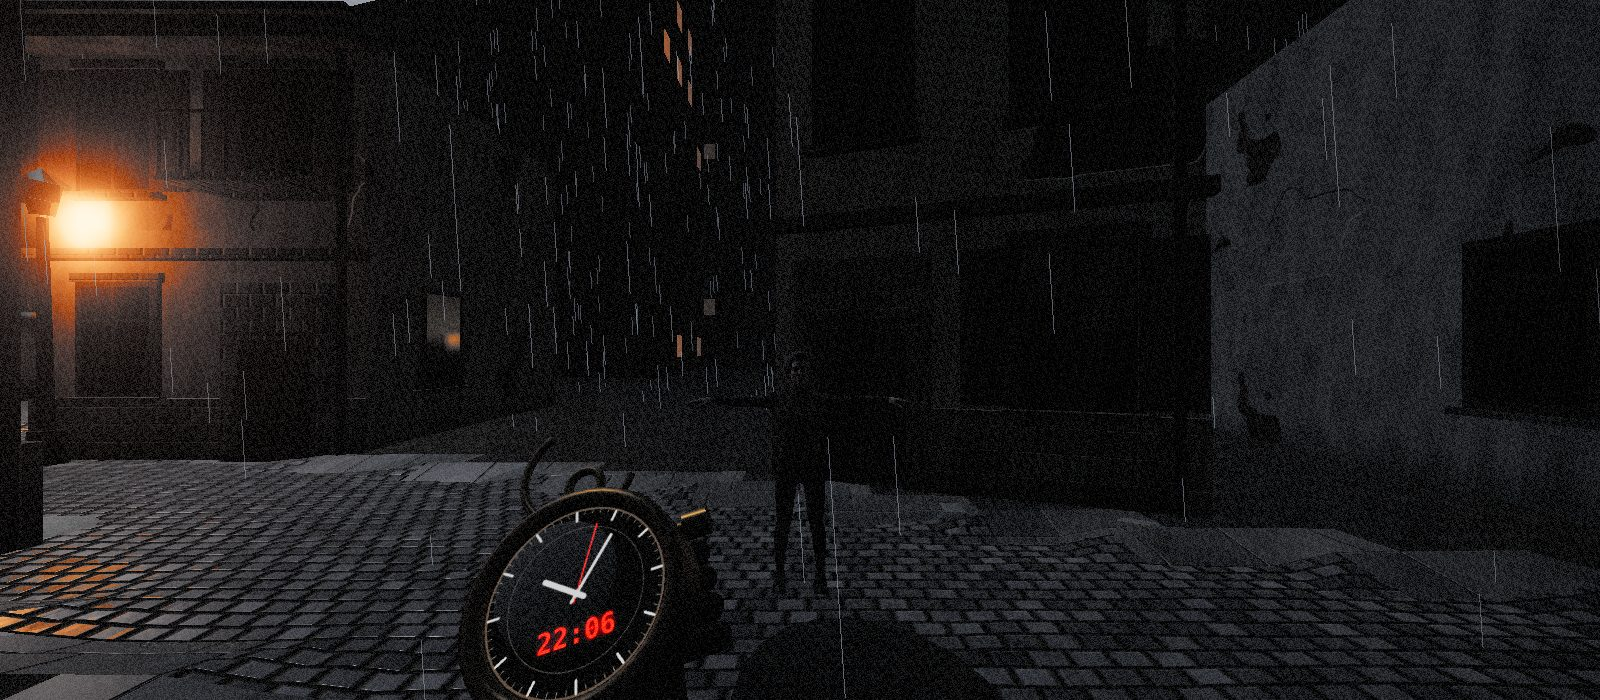
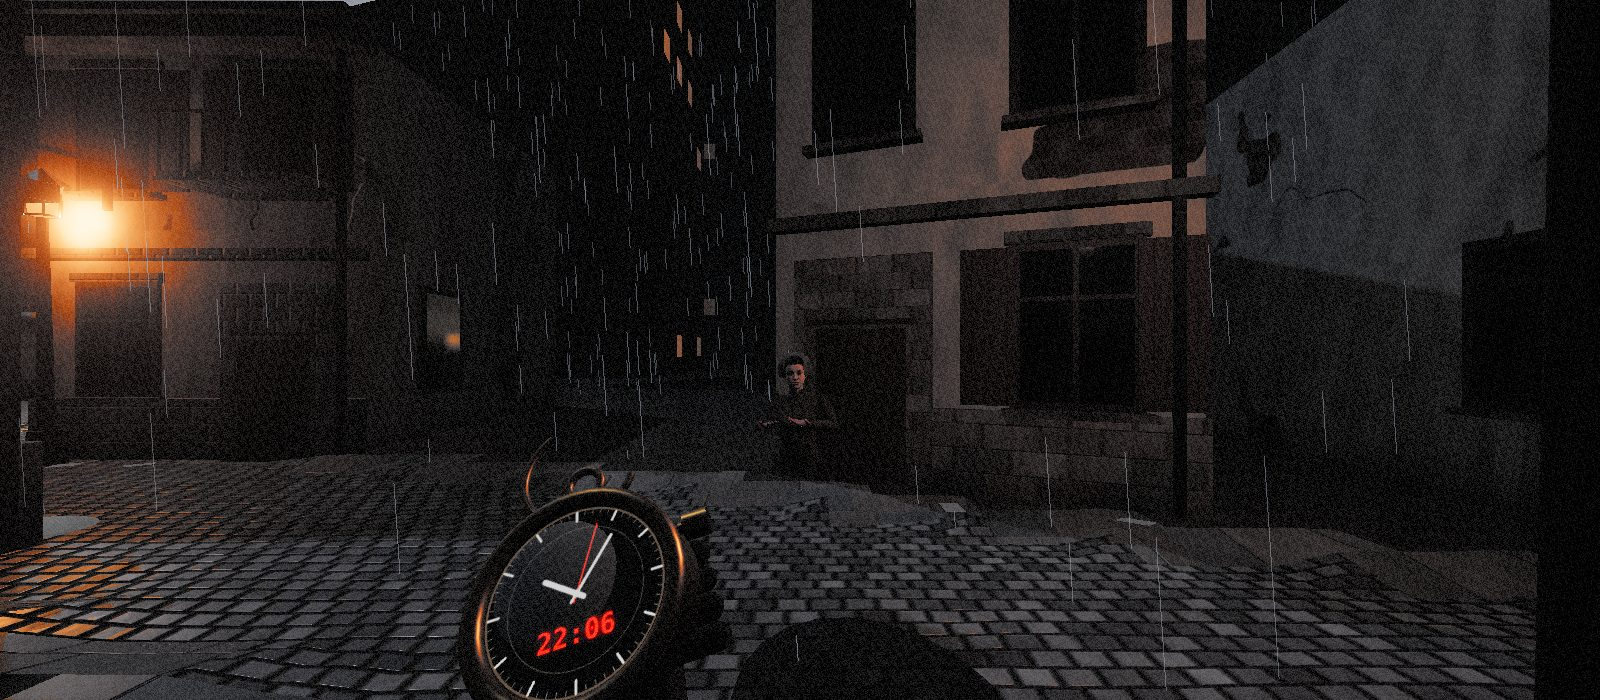
People no longer receive the moon shadow (skinned meshes went black with acne once the shadow box followed the player); a lamp at the mouth of Kluchnikov alley so Tilda is lit; docs
Claude-Session: https://claude.ai/code/session_013J4WMFvireh92DJ1GiMCBL

Changed region(s): [[0.0, 0.0, 1.0, 1.0]]

diff --git a/src/game/people.ts b/src/game/people.ts
@@ -85,7 +85,8 @@ export async function createPerson(look0: Look, id = ''): Promise<Person> {
   const g = await gl('people/mixamo/' + look.body); const root = SU.clone(g.scene) as THREE.Group; p.root.add(root);
   // the clothes are painted onto the body (clothe()), so the pack's trousers/shorts/sneakers/zipper shells only cost triangles: drop them (remy 50k -> 37k)
   const drop: THREE.Object3D[] = []; root.traverse((m: any) => { if (m.isSkinnedMesh && /Shorts|Pants|Sneaker|Zipper|Eyel/i.test(m.name || '')) drop.push(m); }); for (const d of drop) d.removeFromParent();
-  root.traverse((m: any) => { if (m.isMesh) { m.castShadow = /Body/i.test(m.name || ''); m.receiveShadow = true; m.frustumCulled = false; } });
+  // people cast the moon shadow but do not receive it: a skinned mesh self-shadows into black acne at this bias
+  root.traverse((m: any) => { if (m.isMesh) { m.castShadow = /Body/i.test(m.name || ''); m.receiveShadow = false; m.frustumCulled = false; } });
   p.root.updateMatrixWorld(true);
   // --- scale: head bone at ~1.62 m (children: x0.6)
   let head: THREE.Object3D | undefined; root.traverse(o => { if (o.name === 'mixamorigHead') head = o; });

diff --git a/src/world/zaton.ts b/src/world/zaton.ts
@@ -113,7 +113,7 @@ export function buildZaton(scene: THREE.Scene): Zaton {
     }
   };
   for (const id of ['bereg', 'rynok', 'nab', 'sklad', 'priyut', 'kanat', 'gavan', 'gavanE', 'bashn']) lampLine(id, 6, 20);
-  for (const [x, z] of [[-76, -45], [-60, -45], [-76, -35], [-60, -35], [-14.6, 36], [-20, 2], [-47.8, -36.3], [19.2, 15.6], [19.2, 2.4]] as [number, number][]) lamp(scene, x, z);
+  for (const [x, z] of [[-76, -45], [-60, -45], [-76, -35], [-60, -35], [-14.6, 36], [-20, 2], [-47.8, -36.3], [-34.6, -30.4], [19.2, 15.6], [19.2, 2.4]] as [number, number][]) lamp(scene, x, z);
 
   // pier and barge lamps, a hanging lantern at the bend of the alley
   for (const [x, z] of [[-11.8, 62], [-11.8, 72], [-40.4, 66], [-40.4, 78]] as [number, number][]) lamp(scene, x, z, -0.5);

diff --git a/docs/DECISIONS.md b/docs/DECISIONS.md
@@ -19,3 +19,9 @@
 - Враждебность людей Корда — только по явным триггерам (`src/game/combat.ts`), стрельба только при прямой видимости, погоня по навигационной сетке.
 - `npm run check` — общий гейт: tsc, симуляционные тесты, браузерная проверка коллизий и дверей. `F3`/`?debug=1` — каркасы коллайдеров.
 - Документ диалогов (разделы 1–5, 7) генерируется из кода `tools/dump_dialogues.ts`, чтобы не расходился с игрой.
+- Походка людей: Mixamo `walk`/`run` из пака держат пистолет в руках, поэтому это только походка охотников (`walk_gun`/`run_gun`); горожане ходят на `Walk_Loop`/`Jog_Fwd_Loop` из UAL. Клипы UAL запекаются из позы покоя (иначе общий кэш получал сломанный «T-поз» клип).
+- Головы поворачиваются к игроку (говорящий всегда, остальные вблизи), сидящий собеседник остаётся сидеть.
+- Фонари: плафон — светящееся матовое стекло между чугунными рёбрами; плафоны ламп из пака самосветящиеся. Светящиеся окна — атлас из 6 вариантов (шторы, жалюзи, витрины) одним материалом.
+- Огонь: языки из атласа 4 вариантов, растут из оконных проёмов, карниза и столбом над крышей; дым своей текстурой.
+- Тень луны: бокс 48 м следует за игроком с привязкой к текселям; внутри помещений теневой проход выключен.
+- `tests/scenarios.ts`: что даёт каждое дерево без знаний и с ними, окна присутствия ключевых NPC в семи ветках флагов. `check` сканирует всех NPC каждые 5 с за всю ночь в этих ветках.

diff --git a/docs/DEVIATIONS.md b/docs/DEVIATIONS.md
@@ -24,3 +24,5 @@
 | Плейтест ч.1, люди на карте | показано, где игрок видел человека последний раз, а не где он сейчас | честная информация: знания, а не всевидение |
 | Плейтест ч.1, NPC «наверстывает» | после разговора NPC идёт по расписанию с текущей точки; если опоздал, срезает время ожидания, но не телепортируется | без отдельной логики «догона» |
 | Плейтест ч.1, анимация прыжка Неда | Нед подходит к перилам, переходит через них и падает по прямой в воду (−4.6), всплеск; отдельной анимации «перелезания» в паке нет | клипы пака: walk/idle/jump |
+| Реакции прохожих | одна реплика при столкновении (по часу ночи), поворот головы; уклонения в сторону нет | расписания детерминированы, обход игрока сломал бы хэш-тесты |
+| Деревья | тёмные силуэты низкополигональных деревьев пака | в паке нет голых осенних деревьев |

diff --git a/README.md b/README.md
@@ -36,7 +36,7 @@ npm run dev        # http://localhost:5173
 
 ```bash
 npm run check            # tsc + npm test + браузерная проверка коллизий, дверей, маршрута
-npm test                 # sim:baseline + sim:solve + sim:hash + диалоги + скорости (чистая симуляция, tsx)
+npm test                 # sim:baseline + sim:solve + sim:hash + диалоги + скорости + сценарии (чистая симуляция, tsx)
 npm run sim:baseline     # хронология ночи без игрока + проверка, что никто не уходит за карту
 npm run sim:solve        # эталонное прохождение по спеке §11 (≥9 прыжков), 35 проверок
 npm run sim:hash         # детерминизм на 10 сидах
